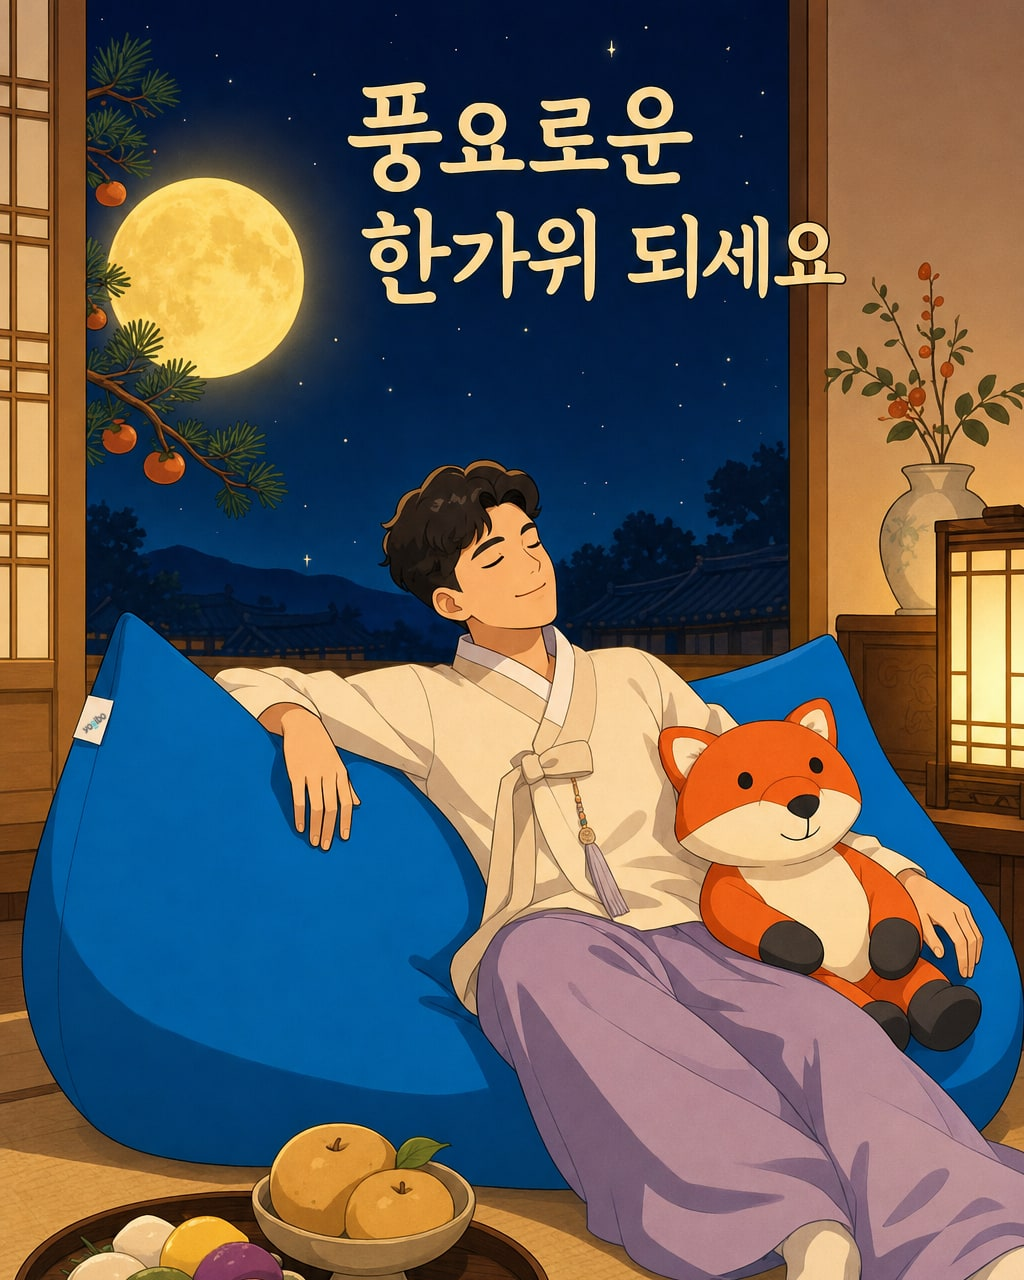
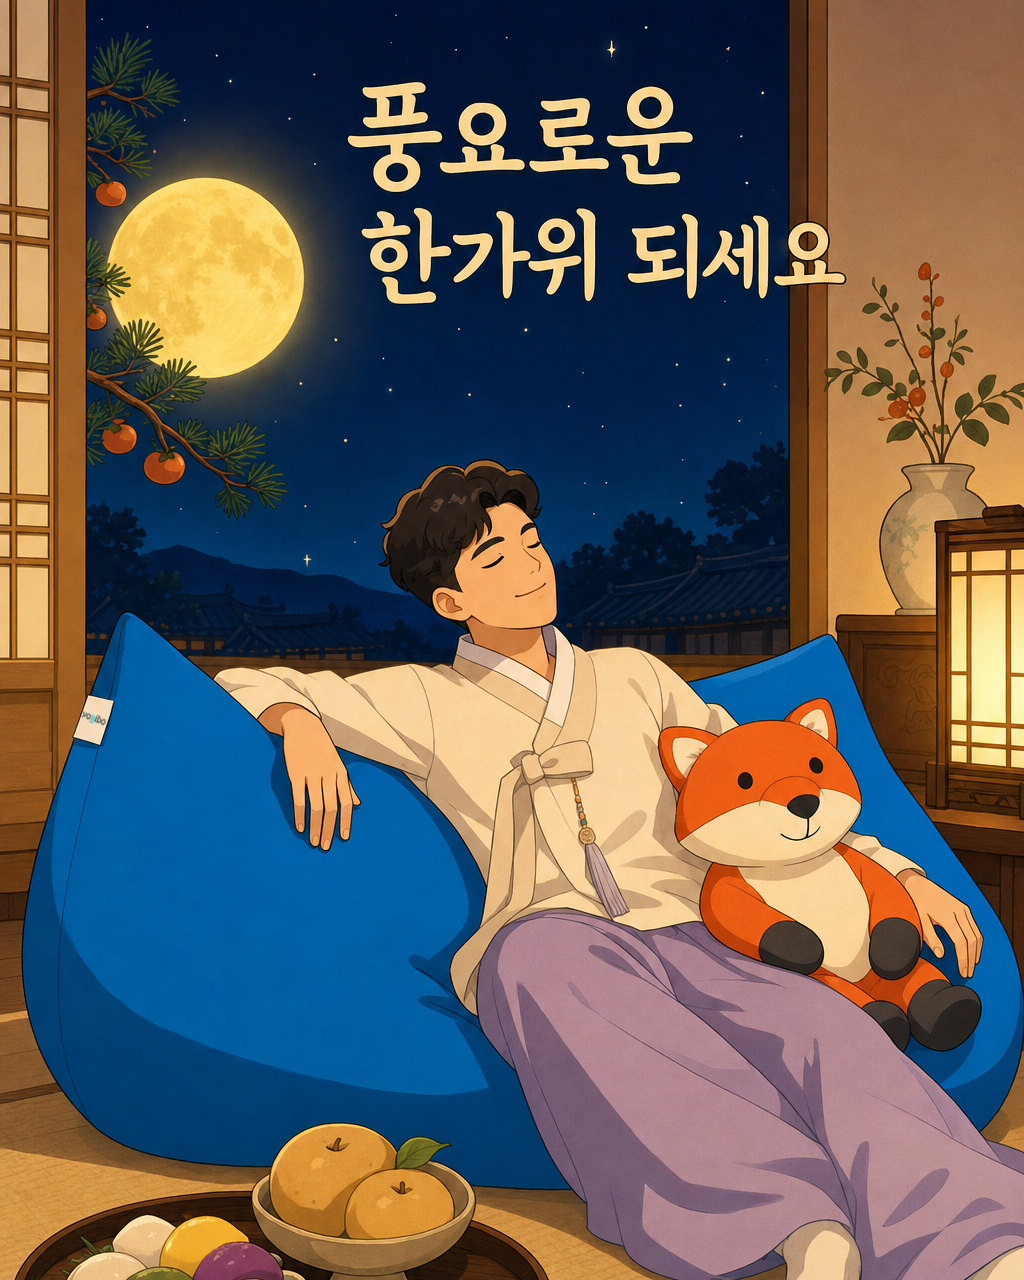
fix(rest-moment): 로고를 태그 정중앙에 가로로 + 맥스 형태를 실제 제품 기준으로
로고 스탬프
  · 가장 밝은 한 점 대신 태그의 밝은 면 전체의 무게중심을 잡는다 — 한 점만 쓰면
    태그 구석에 박힌다(실측).
  · 워드마크를 항상 가로로 읽히게 한다. 세로로 긴 태그는 긴 축이 ±90° 로 나오는데
    그대로 돌리면 로고가 옆으로 누워 글자를 못 읽었다(예제 2장 실측).
    각도를 -45..45 로 접어 태그를 가로지르게 눕힌다.
  · 회전 후 외접 사각형이 태그 안에 들어가도록 크기를 맞춘다(태그의 75%).
  · 합성 좌표를 이미지 안으로 클램프 — 가장자리 태그에서 sharp 가 던졌다.
  · 가드 채도 상한 80 → 110. 무지 태그가 순백이 아니라 따뜻한 크림으로 그려져
    (실측 sat 86) 진짜 태그가 번번이 걸렀다. 판별은 둘레 대비가 한다(140 vs 15).

프롬프트
  · 맥스: "세워 놓은 기둥" → 승인된 레퍼런스 컷의 형태. 사람 키만 한 물방울이
    뒤로 기대 눕고 다리는 러그로 뻗는다. liedown 은 바닥에 길게 눕힌 형태.
  · 태그 규격을 못박는다 — 실루엣 위쪽 솔기, 세로로 살짝 긴 무지 크림 사각형.
  · 거실 씬 소품 고정(나무 삼각대 조명·시어 커튼·야경 창·낮은 원목 테이블·샤기 러그).
  · productEn 이 관사를 갖게 해 "a the Yogibo Max" 중복 제거.

예제 2장을 새 스탬프로 다시 찍었다. 시뮬레이션 4종(적립·관리·청구·마스터) 통과.

Changed region(s): [[0.6875, 0.1875, 0.7188, 0.2188], [0.125, 0.25, 0.1562, 0.2812]]

diff --git a/restPrompts.js b/restPrompts.js
@@ -16,13 +16,19 @@
  *   · 한복 테마는 인사말을 그림 안에 직접 조판 (gpt-image-2 는 한글이 된다)
  */
 
+// 맥스 몸체 — 승인된 레퍼런스 컷의 형태를 그대로 굳힌다(사람 키만 한 물방울, 뒤로 기대 눕는 자세).
+const MAX_BODY = [
+  'the Yogibo Max: ONE very large teardrop-shaped bean bag, about as long as a person is tall — a broad rounded top that tapers to a',
+  'narrower base, filled soft so it slumps and moulds to the body, with wide gentle creases where the weight presses in',
+].join(' ');
+
 const CHIP_EN = {
-  sink:    { productEn: 'Yogibo Max bean bag standing upright in a tall, hugging form', colorEn: 'light grey (warm off-white grey)' },
-  lean:    { productEn: 'Yogibo Lounger bean bag, a low reclining seat with a raised back', colorEn: 'aqua blue' },
-  liedown: { productEn: 'Yogibo Max bean bag laid flat as a long lounging cushion',        colorEn: 'light grey (warm off-white grey)' },
-  floor:   { productEn: 'Yogibo Drop bean bag, a low teardrop-shaped floor cushion',       colorEn: 'olive green' },
-  myspot:  { productEn: 'Yogibo Mini bean bag, a compact one-person cushion',              colorEn: 'dark grey' },
-  hug:     { productEn: 'Yogibo Support, a U-shaped bolster cushion that wraps around the body', colorEn: 'olive green' },
+  sink:    { productEn: MAX_BODY + ', propped at a reclining angle with the wide end raised so the person sinks back into it — head, shoulders and back fully supported, legs stretched down onto the rug', colorEn: 'light grey (warm off-white grey)' },
+  lean:    { productEn: 'the Yogibo Lounger bean bag, a low reclining seat with a raised back', colorEn: 'aqua blue' },
+  liedown: { productEn: MAX_BODY + ', laid flat on the floor as a long mattress-like cushion with the person lying full length along it', colorEn: 'light grey (warm off-white grey)' },
+  floor:   { productEn: 'the Yogibo Drop bean bag, a low teardrop-shaped floor cushion',   colorEn: 'olive green' },
+  myspot:  { productEn: 'the Yogibo Mini bean bag, a compact one-person cushion',          colorEn: 'dark grey' },
+  hug:     { productEn: 'the Yogibo Support, a U-shaped bolster cushion that wraps around the body', colorEn: 'olive green' },
 };
 
 const STYLE = [
@@ -40,14 +46,16 @@ function refLabel(refs, kind) {
 
 function productDirective(chip, refs, opts = {}) {
   const en = CHIP_EN[chip.key] || {};
-  const product = opts.double ? 'Yogibo Double, an extra-wide two-person bean bag' : (en.productEn || chip.product);
+  const product = opts.double ? 'the Yogibo Double, an extra-wide two-person bean bag' : (en.productEn || `the Yogibo ${chip.product}`);
   const color = en.colorEn || chip.color;
   const ref = refLabel(refs, 'product');
   return [
-    `PRODUCT${ref ? ` (shape and color per ${ref})` : ''}: a ${product}, in the exact color ${chip.hex} (${color}).`,
+    `PRODUCT${ref ? ` (shape and color per ${ref})` : ''}: ${product}, in the exact color ${chip.hex} (${color}).`,
     'Keep its true shape, softness and folds; it is the single largest object in the frame.',
-    'EXACTLY ONE small sewn-in fabric tag on the product, on a visible edge seam, rendered as a plain BLANK white rectangle with no lettering',
-    '(the tag is tiny — about 1/15 of the product width). Do not draw any brand wordmark or logo anywhere. No other furniture brands.',
+    'EXACTLY ONE small sewn-in fabric tag on the product, on a visible edge seam in the upper third of its silhouette, lying flat against the',
+    'fabric and facing the viewer, rendered as a plain BLANK cream-white rounded rectangle with NO lettering — slightly taller than it is wide',
+    '(about 1/15 of the product width), its face clean and evenly lit so it reads as one flat shape.',
+    'Do not draw any brand wordmark or logo anywhere. No other furniture brands.',
   ].join(' ');
 }
 
@@ -62,8 +70,10 @@ function mateDirective(refs) {
 
 const SCENES = {
   interior: [
-    'SCENE: a cozy, beautifully styled Korean living room in the evening — warm floor lamp, sheer curtains, a wooden side table with a mug',
-    'of tea, a small plant, a soft rug. The character(s) recline freely on the product with arms relaxed, fully at rest.',
+    'SCENE: a cozy, beautifully styled Korean living room at night. Behind the product: a wooden-framed window or balcony door showing a',
+    'dark blue evening outside, sheer cream curtains, a slim wooden tripod floor lamp casting a warm amber pool of light, and a low wooden',
+    'shelf with a potted plant and a woven basket. On the floor: a thick cream shag rug, a small round wooden table with a mug of tea and a',
+    'couple of books. The character(s) recline freely on the product with arms relaxed and legs stretched out, fully at rest.',
     'Mood: quiet, warm, exhaling after a long day. NO TEXT of any kind — no letters, numbers, captions, logos or watermarks.',
   ].join(' '),
   hanbok: (greeting) => [

diff --git a/restMoment.js b/restMoment.js
@@ -541,19 +541,60 @@ async function stampLogo(buf, box) {
   for (let dy = -8; dy <= 8; dy += 2) for (let dx = -8; dx <= 8; dx += 2) { const w = win(cx + dx, cy + dy, 2); if (w.lum > best.lum) { best = w; bx = cx + dx; by = cy + dy; } }
   const ringR = Math.max(10, Math.round(Math.max(Number(box.w) * W || 0, Number(box.h) * H || 0) * 0.9));
   let ring = 0; for (let k = 0; k < 8; k++) { const a = (k * Math.PI) / 4; ring += win(Math.round(bx + Math.cos(a) * ringR), Math.round(by + Math.sin(a) * ringR), 1).lum; } ring /= 8;
-  if (best.lum < 170 || best.sat > 80 || best.lum - ring < 40) {
+  // 채도 상한은 110 — 무지 태그가 순백이 아니라 따뜻한 크림색으로 그려진다(실측 sat 86). 진짜 판별은 둘레 대비가 한다.
+  if (best.lum < 170 || best.sat > 110 || best.lum - ring < 40) {
     console.warn(`[쉼순간] 태그 좌표가 무지 태그로 보이지 않음(lum ${best.lum.toFixed(0)}, sat ${best.sat.toFixed(0)}, 둘레 ${ring.toFixed(0)}) → 로고 생략`);
     return { buf, stamped: false };
   }
-  const cxx = bx, cyy = by;
-  const longSide = Math.max(Number(box.w) * W || 0, Number(box.h) * H || 0);
-  const logoW = Math.max(14, Math.min(Math.round(longSide * 0.8) || 0, Math.round(W * 0.08)));
-  const angle = Math.max(-90, Math.min(90, Number(box.angle) || 0));
+  // 태그의 밝은 면 전체를 모아 무게중심과 긴 축을 낸다. 가장 밝은 한 점만 쓰면 로고가 태그 구석에 박힌다(실측).
+  const seedW = Math.max(8, Math.round((Number(box.w) || 0.03) * W));
+  const seedH = Math.max(8, Math.round((Number(box.h) || 0.03) * H));
+  const scanR = Math.max(10, Math.round(Math.max(seedW, seedH) * 0.8));
+  const thr = Math.max(150, best.lum - 30);
+  const pts = [];
+  for (let y = Math.max(0, by - scanR); y <= Math.min(H - 1, by + scanR); y++)
+    for (let x = Math.max(0, bx - scanR); x <= Math.min(W - 1, bx + scanR); x++) {
+      const [R, G, B] = px(x, y);
+      if ((R + G + B) / 3 >= thr && Math.max(R, G, B) - Math.min(R, G, B) <= 90) pts.push(x, y);
+    }
+  let cxx = bx, cyy = by, tagW = seedW, tagH = seedH, major = Number(box.angle) || 0;
+  if (pts.length >= 60) {                                   // 픽셀 30개 (x,y 쌍으로 담는다)
+    const cnt = pts.length / 2;
+    let mx = 0, my = 0;
+    for (let i = 0; i < pts.length; i += 2) { mx += pts[i]; my += pts[i + 1]; }
+    mx /= cnt; my /= cnt;
+    let sxx = 0, syy = 0, sxy = 0, x0 = Infinity, x1 = -Infinity, y0 = Infinity, y1 = -Infinity;
+    for (let i = 0; i < pts.length; i += 2) {
+      const dx = pts[i] - mx, dy = pts[i + 1] - my;
+      sxx += dx * dx; syy += dy * dy; sxy += dx * dy;
+      if (pts[i] < x0) x0 = pts[i]; if (pts[i] > x1) x1 = pts[i];
+      if (pts[i + 1] < y0) y0 = pts[i + 1]; if (pts[i + 1] > y1) y1 = pts[i + 1];
+    }
+    cxx = Math.round(mx); cyy = Math.round(my);
+    tagW = x1 - x0 + 1; tagH = y1 - y0 + 1;
+    major = 0.5 * Math.atan2(2 * sxy / cnt, (sxx - syy) / cnt) * 180 / Math.PI;
+  }
+  // 워드마크는 언제나 가로로 읽혀야 한다. 세로로 긴 태그는 긴 축이 ±90° 로 나오는데 그대로 돌리면
+  // 로고가 옆으로 누워 글자를 못 읽는다(실측). -45..45 로 접어 태그를 가로지르게 눕힌다.
+  let angle = major;
+  while (angle > 90) angle -= 180;
+  while (angle < -90) angle += 180;
+  if (angle > 45) angle -= 90; else if (angle < -45) angle += 90;
+  // 회전한 로고의 외접 사각형이 태그 안에 들어가는 최대 가로폭
+  const lmeta = await sharp(logo).metadata();
+  const logoAr = (lmeta.height || 160) / (lmeta.width || 400);
+  const rr = Math.abs(angle) * Math.PI / 180;
+  const capW = (tagW * 0.75) / (Math.cos(rr) + logoAr * Math.sin(rr));
+  const capH = (tagH * 0.75) / (Math.sin(rr) + logoAr * Math.cos(rr));
+  const logoW = Math.max(10, Math.round(Math.min(capW, capH, W * 0.08)));
   const l = await sharp(logo).resize({ width: logoW }).ensureAlpha().png().toBuffer();
   const faded = await sharp(l).composite([{ input: Buffer.from([0, 0, 0, 235]), raw: { width: 1, height: 1, channels: 4 }, tile: true, blend: 'dest-in' }]).png().toBuffer();
   const rot = await sharp(faded).rotate(angle, { background: { r: 0, g: 0, b: 0, alpha: 0 } }).png().toBuffer();
   const rm = await sharp(rot).metadata();
-  const out = await sharp(buf).composite([{ input: rot, left: cxx - Math.round(rm.width / 2), top: cyy - Math.round(rm.height / 2) }]).png().toBuffer();
+  // 태그가 가장자리에 있으면 좌표가 화면 밖으로 나간다 — sharp 는 음수 left/top 에서 던진다
+  const left = Math.max(0, Math.min(W - rm.width, cxx - Math.round(rm.width / 2)));
+  const top = Math.max(0, Math.min(H - rm.height, cyy - Math.round(rm.height / 2)));
+  const out = await sharp(buf).composite([{ input: rot, left, top }]).png().toBuffer();
   return { buf: out, stamped: true };
 }
 
